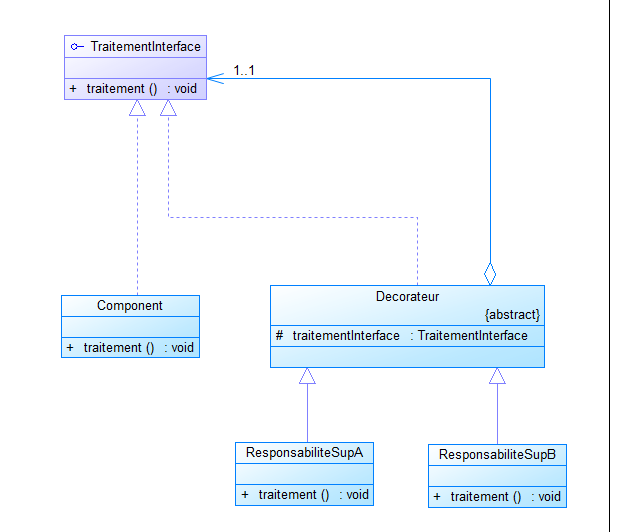
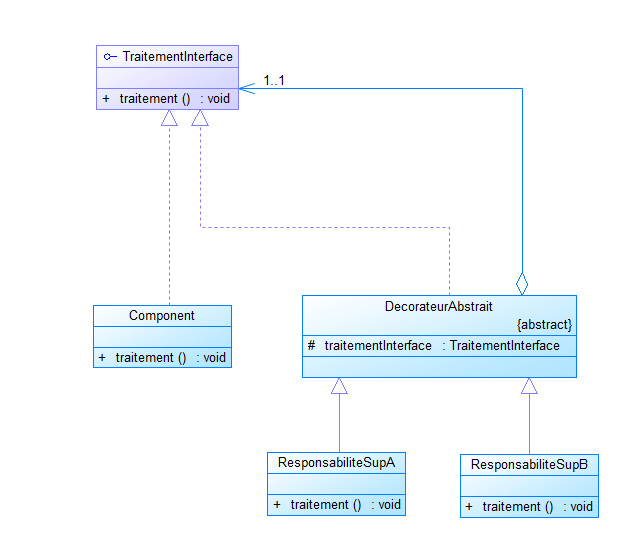
Rapport question 3

diff --git a/src/main/java/net/zoungrana/question3/ResponsabiliteSupADecorator.java b/src/main/java/net/zoungrana/question3/ResponsabiliteSupADecorator.java
@@ -2,8 +2,8 @@ package net.zoungrana.question3;
 
 public class ResponsabiliteSupADecorator extends DecorateurAbstrait{
 
-    public ResponsabiliteSupADecorator(TraitementInterface traitement){
-        super(traitement);
+    public ResponsabiliteSupADecorator(TraitementInterface composant){
+        super(composant);
     }
 
     @Override

diff --git a/src/main/java/net/zoungrana/question3/ResponsabiliteSupBDecorator.java b/src/main/java/net/zoungrana/question3/ResponsabiliteSupBDecorator.java
@@ -2,8 +2,8 @@ package net.zoungrana.question3;
 
 public class ResponsabiliteSupBDecorator extends DecorateurAbstrait{
 
-    public ResponsabiliteSupBDecorator(TraitementInterface traitement){
-        super(traitement);
+    public ResponsabiliteSupBDecorator(TraitementInterface composant){
+        super(composant);
     }
 
     @Override

diff --git a/README.md b/README.md
@@ -13,7 +13,7 @@ L'Exercice 1 porte sur l'analyse de situations de conception récurrentes et l'i
 
 1. [Question 1 : Modélisation de figures géométriques simples et composites](#question-1--modélisation-de-figures-géométriques-simples-et-composites) *(Traité)*
 2. [Question 2 : Squelette d'algorithme et instanciation dynamique de plugins](#question-2--squelette-dalgorithme-et-instanciation-dynamique-de-plugins) *(Traité)*
-3. [Question 3 : Extension dynamique de responsabilités d'un composant](#question-3--extension-dynamique-de-responsabilités-dun-composant) *(À venir)*
+3. [Question 3 : Extension dynamique de responsabilités d'un composant](#question-3--extension-dynamique-de-responsabilités-dun-composant) *(Traité)*
 4. [Question 4 : Système de notification d'état à couplage faible](#question-4--système-de-notification-détat-à-couplage-faible) *(À venir)*
 
 ---
@@ -105,24 +105,6 @@ public class Test {
 #### Capture écran de la console
 ![Trace d'exécution console](./exo1-question-1-execution.png)
 
-#### Sortie texte
-```text
-*************************************
-Cercle 1 Rayon:5.0 Aire:78.53981633974483
-*************************************
-*************************************
-Rectangle 1 de largeur: 5.0 et de longueur : 10.0 Aire:50.0
-*************************************
--------------------- Groupe---------------------------
-Aire du groupe: 128.53981633974485
-*************************************
-Cercle 1 Rayon:5.0 Aire:78.53981633974483
-*************************************
-*************************************
-Rectangle 1 de largeur: 5.0 et de longueur : 10.0 Aire:50.0
-*************************************
--------------------------------------------------------
-```
 
 ---
 
@@ -283,34 +265,166 @@ public class Test {
 #### Capture écran de la console
 ![Trace d'exécution console](./execution-exo1-question-2.png)
 
-#### Sortie texte
-```text
-Preparation
-**************** Plugin A *******************
-Algo part 1 depuis Plugin A
-********************************************
-**************** Plugin A *******************
-Algo part 2 depuis Plugin A
-********************************************
-Terminer
-Preparation
-**************** Plugin B *******************
-Algo part 1 depuis Plugin B
-********************************************
-**************** Plugin B *******************
-Algo part 2 depuis Plugin B
-********************************************
-Terminer
-```
+
 
 ---
 
 ## Question 3 : Extension dynamique de responsabilités d'un composant
 
-### Énoncé
+### 1. Énoncé
 > *« On dispose d’un composant implémentant une interface qui définit une opération « traitement() ». On voudrait rattacher à ce composant des responsabilités supplémentaires sans modifier son code source. C'est-à-dire envelopper l’exécution de la méthode traitement par d’autres traitements avant et après son exécution. »*
 
-*Statut : À venir.*
+Cette situation pose une problématique classique d'extensibilité logicielle : comment enrichir le comportement d'une classe existante sans altérer son code source, sans briser l'encapsulation et sans recourir à une sous-classification statique excessive ?
+
+---
+
+### 2. Choix et Justification du Design Pattern : **Decorator** (*Décorateur / Wrapper*)
+
+Le patron structurel **Decorator** (GoF) répond fidèlement à cette exigence :
+
+- **Attachement dynamique de responsabilités :** Contrairement à l'héritage qui fige les comportements au moment de la compilation, le décorateur permet d'adjoindre des fonctionnalités supplémentaires à un objet dynamiquement à l'exécution (*runtime*).
+- **Principe Ouvert / Fermé (Open/Closed Principle - OCP) :** La classe de base (`Composant`) reste intacte et fermée à la modification, tout en étant ouverte à des extensions fonctionnelles par l'ajout de nouveaux décorateurs.
+- **Transparence et substituabilité :** Le décorateur abstrait (`DecorateurAbstrait`) et le composant concret (`Composant`) partagent la même interface racine (`TraitementInterface`). Le client manipule ainsi les objets décorés de manière transparente sans changer de type d'abstraction.
+- **Enveloppement avant / après (*Wrapping*) :** Les décorateurs concrets (`ResponsabiliteSupADecorator`, `ResponsabiliteSupBDecorator`) interceptent l'appel à `traitement()`, injectent des traitements préliminaires (pré-traitements), délèguent l'exécution au composant enveloppé (`composant.traitement()`), puis déclenchent des traitements complémentaires (post-traitements).
+- **Composition récursive et combinatoire :** Ce patron permet d'empiler plusieurs décorateurs de manière cumulative (`ResponsabiliteSupBDecorator` enveloppant `ResponsabiliteSupADecorator`, qui enveloppe `Composant`), évitant ainsi l'explosion combinatoire de sous-classes.
+
+---
+
+### 3. Diagramme de Classes
+
+Le diagramme de classes illustre la structure du patron Decorator mise en œuvre :
+
+![Diagramme de classes - Pattern Decorator](./diagramme-classe-exo-1-question-3.png)
+
+#### Analyse des relations :
+- **`TraitementInterface` :** Interface racine commune exposant l'opération abstraite `+ traitement() : void`.
+- **`Composant` :** Implémentation concrète de base réalisant `TraitementInterface`.
+- **`DecorateurAbstrait` :** Classe abstraite implémentant `TraitementInterface` et maintenant une relation de composition/agrégation `1..1` vers une instance de `TraitementInterface` (`# composant`).
+- **`ResponsabiliteSupADecorator` & `ResponsabiliteSupBDecorator` :** Décorateurs concrets dérivant de `DecorateurAbstrait` et redéfinissant `traitement()` pour intercaler leurs traitements spécifiques avant et après la délégation.
+
+---
+
+### 4. Description de l'Implémentation
+
+Le code est structuré sous le package `net.zoungrana.question3` :
+
+#### A. Interface Commune : `TraitementInterface`
+Définit le contrat partagé entre le composant originel et l'ensemble de ses décorateurs :
+```java
+package net.zoungrana.question3;
+
+public interface TraitementInterface {
+    void traitement();
+}
+```
+
+#### B. Composant Concret : `Composant`
+Réalise le traitement standard initial sans préoccupation transversale :
+```java
+package net.zoungrana.question3;
+
+public class Composant implements TraitementInterface {
+    @Override
+    public void traitement() {
+        System.out.println("***************************");
+        System.out.println("Traitement de base");
+        System.out.println("***************************");
+    }
+}
+```
+
+#### C. Décorateur Abstrait : `DecorateurAbstrait`
+Maintient l'état du composant encapsulé :
+```java
+package net.zoungrana.question3;
+
+public abstract class DecorateurAbstrait implements TraitementInterface {
+    protected TraitementInterface composant;
+
+    public DecorateurAbstrait(TraitementInterface composant){
+        this.composant = composant;
+    }
+}
+```
+
+#### D. Décorateurs Concrets : `ResponsabiliteSupADecorator` & `ResponsabiliteSupBDecorator`
+Chaque décorateur concrétise le mécanisme d'interception :
+- **`ResponsabiliteSupADecorator` :**
+  ```java
+  package net.zoungrana.question3;
+
+  public class ResponsabiliteSupADecorator extends DecorateurAbstrait {
+
+      public ResponsabiliteSupADecorator(TraitementInterface composant){
+          super(composant);
+      }
+
+      @Override
+      public void traitement() {
+          System.out.println("************ Traitement supplémentaire A  ***************");
+          composant.traitement();
+          System.out.println("************** Traitement supplémentaire A *************");
+      }
+  }
+  ```
+- **`ResponsabiliteSupBDecorator` :**
+  ```java
+  package net.zoungrana.question3;
+
+  public class ResponsabiliteSupBDecorator extends DecorateurAbstrait {
+
+      public ResponsabiliteSupBDecorator(TraitementInterface composant){
+          super(composant);
+      }
+
+      @Override
+      public void traitement() {
+          System.out.println("************ Traitement Supplémentaire B ***************");
+          composant.traitement();
+          System.out.println("*************** Traitement Supplémentaire B ************");
+      }
+  }
+  ```
+
+---
+
+### 5. Programme de Test et Explication
+
+La classe `Test` démontre la composition dynamique et le chaînage d'enveloppes :
+
+```java
+package net.zoungrana.question3;
+
+public class Test {
+    public static void main(String[] args) {
+        TraitementInterface c = new Composant();
+        c = new ResponsabiliteSupADecorator(c);
+        c.traitement();
+
+        System.out.println("-----------------------------------------");
+
+        c = new ResponsabiliteSupBDecorator(c);
+        c.traitement();
+    }
+}
+```
+
+#### Déroulement de l'exécution :
+1. **Étape 1 — Décoration simple :** L'instance de `Composant` est enveloppée dans `ResponsabiliteSupADecorator`. L'appel `c.traitement()` déclenche le pré-traitement A, puis le traitement de base, puis le post-traitement A.
+2. **Étape 2 — Décoration cumulative :** La référence `c` (déjà décorée par A) est à nouveau enveloppée dans `ResponsabiliteSupBDecorator`. L'appel `c.traitement()` produit une exécution emboîtée de l'extérieur vers l'intérieur :
+   - Déclenchement du pré-traitement B.
+   - Délégation à `composant` (qui est le décorateur A) : exécution du pré-traitement A.
+   - Délégation au `Composant` d'origine : exécution du traitement de base.
+   - Exécution du post-traitement A.
+   - Exécution finale du post-traitement B.
+
+---
+
+### 6. Trace d'Exécution
+
+#### Capture écran de la console
+![Trace d'exécution console](./execution-exo1-question-3.png)
+
 
 ---
 
@@ -331,8 +445,10 @@ TD-1-Design-Pattern/
 ├── README.md
 ├── diagramme-classe-exo-1-question1-real.png
 ├── diagramme-classe-exo-1-question-2.png
+├── diagramme-classe-exo-1-question-3.png
 ├── exo1-question-1-execution.png
 ├── execution-exo1-question-2.png
+├── execution-exo1-question-3.png
 └── src/
     └── main/
         └── java/
@@ -344,10 +460,17 @@ TD-1-Design-Pattern/
                     │   ├── Rectangle.java
                     │   ├── GroupeFigure.java
                     │   └── Test.java
-                    └── question2/
-                        ├── Plugin.java
-                        ├── PluginA.java
-                        ├── PluginB.java
-                        ├── PluginFactory.java
+                    ├── question2/
+                    │   ├── Plugin.java
+                    │   ├── PluginA.java
+                    │   ├── PluginB.java
+                    │   ├── PluginFactory.java
+                    │   └── Test.java
+                    └── question3/
+                        ├── TraitementInterface.java
+                        ├── Composant.java
+                        ├── DecorateurAbstrait.java
+                        ├── ResponsabiliteSupADecorator.java
+                        ├── ResponsabiliteSupBDecorator.java
                         └── Test.java
 ```
